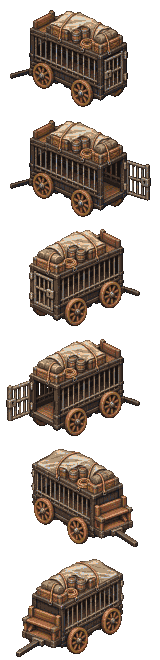
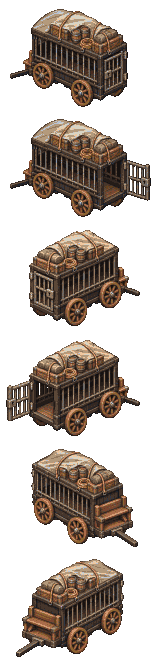
The prison wagon's HEADs 1 and 2 from the rear bench revision (art-wanted 107)
The art desk's ART-169-REAR-BENCH-REV cells (the front bench a visible
edge above the tongue, as HEADs 3 and 4) replace the handoff's four in
dmwagon_nw, _nw_open, dmwagon_ne, _ne_open, on the same anchor; the old
four to the batch's superseded/cells/. Stamps rebuilt. (cutter-1125b)

His words: "there's a second wagon zip with revised rear views"

diff --git a/deep16/data/sprites.js b/deep16/data/sprites.js
@@ -4648,7 +4648,7 @@
 },
 "dmwagon_p1": {
 "_note": "the Dominion's prison wagon over dominionroad's 2x2 covered wagon (tools/dmwagon-sheet.py, art-wanted 107, ART-169, 2026-11-25): a row a piece, as goblincamp_p1 (js/circles.js sheetAt draws a row with the sheet's ax,ay -- the 2x2 footprint's CENTRE -- at iso.center(x0 + 0.5, y0 + 0.5)); `tiles` the same pieces as boxes x,y,w,h with js/innprops.js's anchor, the footprint's back corner; named by the way its front faces; the scene starts shut, the recruits' encounter swaps to _open at the same anchor, a turn on the road swaps the heading",
-"image": "art/dmwagon_p1.png?v=ad5cc1a00a",
+"image": "art/dmwagon_p1.png?v=ec3312c636",
 "fw": 160,
 "fh": 110,
 "ax": 78,

diff --git a/deep16/index.html b/deep16/index.html
@@ -113,7 +113,7 @@
 <script src="js/art.js?v=e1ce4cf012"></script>
 <script src="data/cavern.js?v=647c1a184a"></script>
 <script src="data/maps.js?v=d33fd7d069"></script>
-<script src="data/sprites.js?v=be2d0a3fc5"></script>
+<script src="data/sprites.js?v=c769f52775"></script>
 <script src="js/sprites.js?v=6d0752045d"></script>
 <script src="js/save.js?v=afbd9d9582"></script>
 <script src="data/spells.js?v=5245b60266"></script>

diff --git a/tools/dmwagon-sheet.py b/tools/dmwagon-sheet.py
@@ -17,9 +17,9 @@ the sheet's (ax, ay) = the art desk's (78, 90), the footprint's centre, at iso.c
 `tiles` keeps each piece as a box for js/topview.js TV.piece with js/innprops.js's anchor, the BACK corner of its footprint (the top of the 2x2 diamond,
 2 x 16 px above its centre on the 64 x 32 grid: js/iso.js TW, TH) -- (78, 58).
 
-NOT TAKEN: the art desk's ART-169-REAR-BENCH-REV-REVIEW (its front bench raised to HEADs 3 and 4's height, on HEADs 1 and 2), sorted beside as
-deep16/_src/dmwagon/2026-11-25-ART-169-REAR-BENCH-REV/: its own REVIEW.md calls it "for review before promotion to the cutter handoff". Swap its four cells
-into CELLS when he approves it.
+HEADs 1 AND 2 ARE THE REAR BENCH REVISION: the art desk's ART-169-REAR-BENCH-REV-REVIEW (the front bench a visible edge above the tongue, at HEADs 3 and
+4's height, on the same registered wagon and anchor), taken on Griz's "there's a second wagon zip with revised rear views" (its own REVIEW.md called it
+"for review before promotion to the cutter handoff"): its four cells moved into the batch's cells/, the handoff's first four to its superseded/cells/.
 """
 import json, os, sys
 import numpy as np
